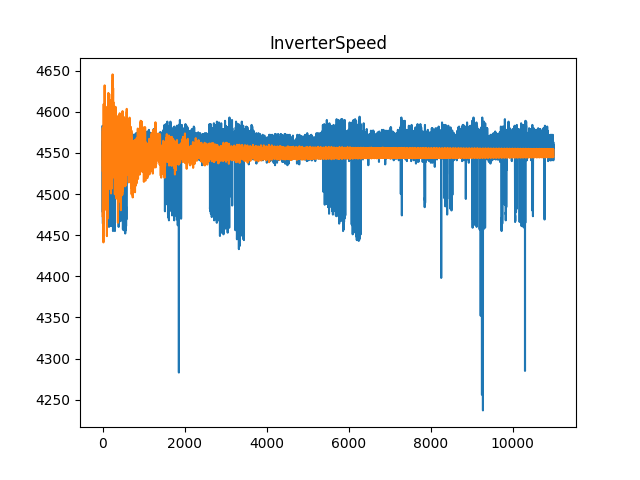
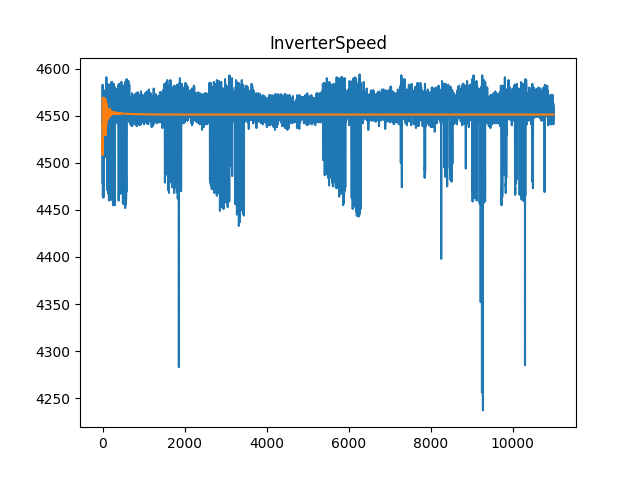
re-ajust transformer.

diff --git a/classical_methods_forecast/view_classical_methods.py b/classical_methods_forecast/view_classical_methods.py
@@ -37,16 +37,19 @@ def view_filter_low_pass():
 
 
 def vector_autoRegressive_model():
-    payload_hex = "../Datasets/dataset_TPV_sensors/hex/payloadHex.csv"
+    #payload_hex = "../Datasets/dataset_TPV_sensors/hex/payloadHex.csv"
+    payload_ite = "../Datasets/dataset_TPV_sensors/ite/payloadITE.csv"
 
-    df = pd.read_csv(payload_hex)
+    #df = pd.read_csv(payload_hex)
+    df = pd.read_csv(payload_ite)
 
     split_test = 5000
     split_test_end = 16000
 
-    df = df.drop(labels=["Time"], axis=1)
+    # df = df.drop(labels=["Time"], axis=1)
 
-    inlet_pressure = df["InletPressure"].tolist()
+    #'temperature', 'frequency'
+    inlet_pressure = df["temperature"].tolist()
 
     fs = len(inlet_pressure)
 
@@ -62,7 +65,7 @@ def vector_autoRegressive_model():
     train = df[:split_test]
     test = df[split_test:split_test_end]
 
-    for i in range(20):
+    for i in range(5):
         model = VAR(train)
         results = model.fit(i)
         print('Order =', i)
@@ -70,7 +73,7 @@ def vector_autoRegressive_model():
         print('BIC: ', results.bic)
         print()
 
-    window = 500
+    window = 100
     result = model.fit(window)
     # print(result.summary())
 

diff --git a/models/unsupervised/models.py b/models/unsupervised/models.py
@@ -1,6 +1,6 @@
 import positional_encoder as pe
-from matrix_confusion import plot_confusion_matrix
-from neuralprophet import NeuralProphet
+#from matrix_confusion import plot_confusion_matrix
+#from neuralprophet import NeuralProphet
 import torch
 import math
 from torch import nn, Tensor
@@ -419,7 +419,7 @@ class TimeSeriesTransformers(nn.Module):
             self,
             n_encoder_layers,
             n_decoder_layers,
-            embedding_dim=1024,
+            embedding_dim=512,
             n_heads=8,
             dropout=0.1,
             lr=1e-4,

diff --git a/matrix_confusion.py b/matrix_confusion.py
@@ -1,8 +1,8 @@
 import matplotlib.pyplot as plt
 import itertools
-from models import LSTMattn
+#from models import LSTMattn
 from utils.utils import *
-from utils.read_dataset import read_h5
+#from utils.read_dataset import read_h5
 from datasets import DatasetWileC
 
 
